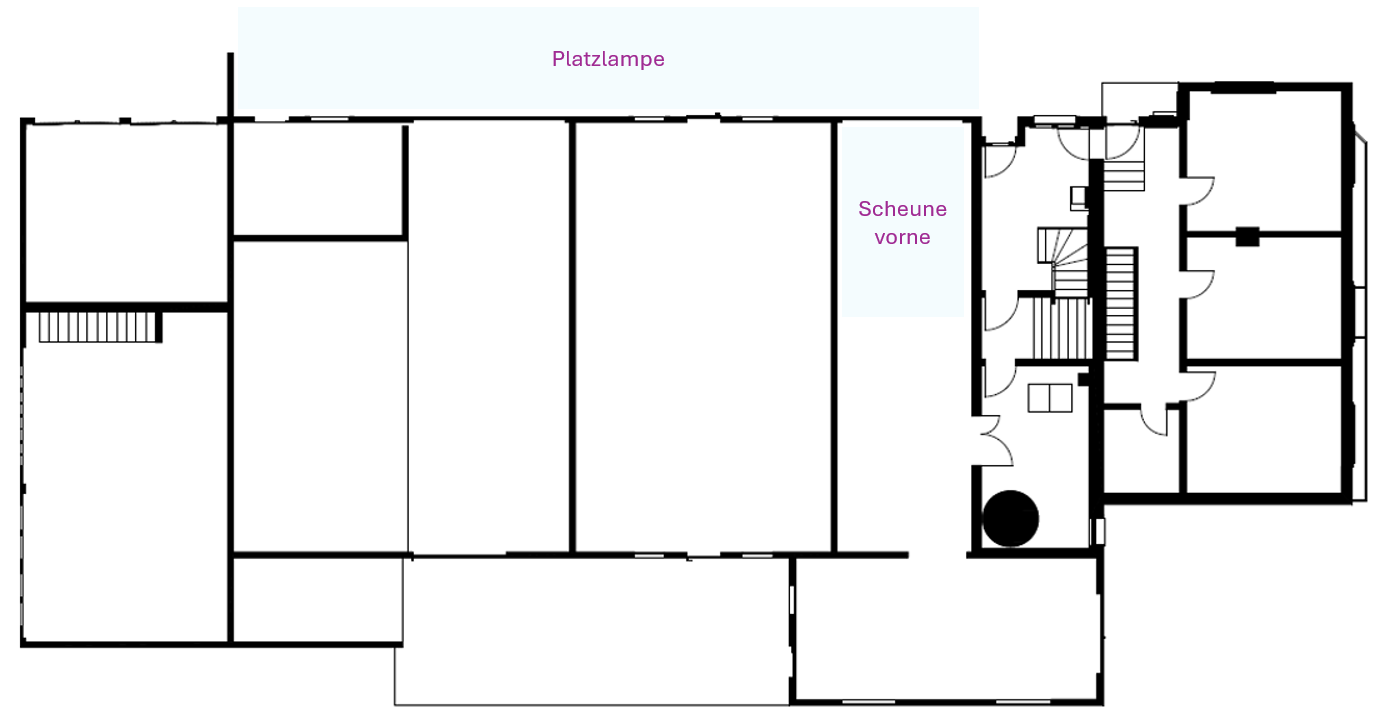
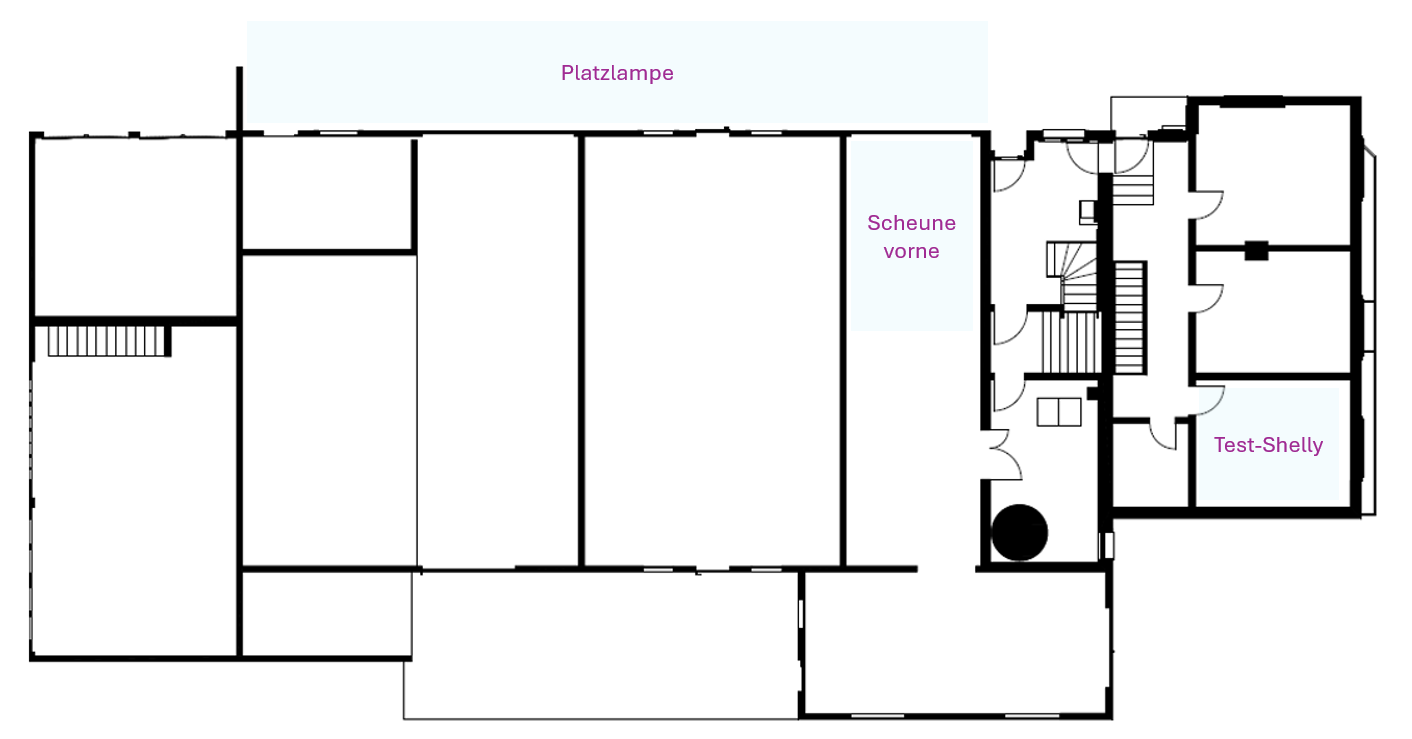
Add files via upload

Changed region(s): [[0.0, 0.0611, 0.9949, 1.0], [0.4042, 0.0611, 0.4975, 0.1222], [0.7151, 0.6111, 0.7462, 0.6417]]

diff --git a/beleuchtung/grafik.html b/beleuchtung/grafik.html
@@ -52,7 +52,7 @@
     .plan {
       position: relative;
       width: 100%;
-      aspect-ratio: 1383 / 720;
+      aspect-ratio: 1412 / 739;
       overflow: hidden;
       border-radius: 14px;
       background: rgba(255, 255, 255, 0.03);
@@ -146,7 +146,7 @@
             data-device-key="platzlampe"
             type="button"
             aria-label="Platzlampe"
-            style="left:17.2%; top:1.1%; width:53.8%; height:14.7%;"></button>
+            style="left:17.5%; top:2.8%; width:53.3%; height:13.8%;"></button>
 
           <button
             id="regionScheuneVorne"
@@ -154,7 +154,15 @@
             data-device-key="scheune-vorne"
             type="button"
             aria-label="Scheune vorne"
-            style="left:60.4%; top:16.2%; width:10.7%; height:27.2%;"></button>
+            style="left:60.7%; top:17.9%; width:9.1%; height:26.9%;"></button>
+
+          <button
+            id="regionTestShelly"
+            class="regionBtn"
+            data-device-key="test-shelly"
+            type="button"
+            aria-label="Test-Shelly"
+            style="left:85.1%; top:52.6%; width:10.8%; height:15.2%;"></button>
         </div>
 
         <div class="legend">

diff --git a/beleuchtung/graphic.js b/beleuchtung/graphic.js
@@ -5,6 +5,10 @@ const CLICK_DEBOUNCE_MS = 600
 
 const controls = [
   {
+    key: "test-shelly",
+    button: document.getElementById("regionTestShelly")
+  },
+  {
     key: "platzlampe",
     button: document.getElementById("regionPlatzlampe")
   },
